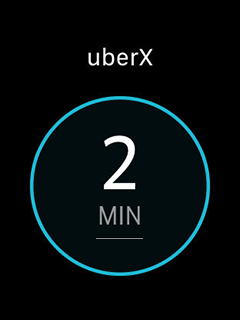
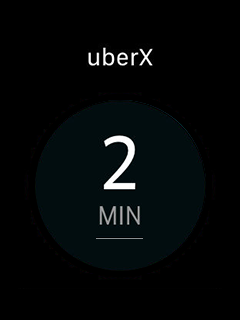
Drawing circles and buttons.

Changed region(s): [[0.1167, 0.2812, 0.7875, 0.875], [0.7, 0.4062, 0.875, 0.8125]]

diff --git a/src/UberMe.java b/src/UberMe.java
@@ -88,7 +88,7 @@ public class UberMe extends MIDlet {
 
     public void keyPressed(int keyCode){
       vect.addElement(getKeyName(keyCode));
-      state += 1;
+      state = (state > 1) ? 0 : state + 1;
       this.repaint();
     }
 
@@ -113,21 +113,25 @@ public class UberMe extends MIDlet {
       } else {
         currentImage = enrouteImage;
         strText = "En Route";
-        state = -1;
       } 
       g.drawImage(currentImage, 0, 0, Graphics.LEFT | Graphics.TOP);
-      g.setColor(255, 255, 255);
+      g.setColor(0xFFFFFF);
       letterFont = openSansBold;
       letters(g, strText, 4, 4);
       letters(g, strTime, width - (strTime.length() * 12) + 2, 4);
       g.setFont(fontSm);
       if (state == 1) {
-        g.setColor(0x99ff99);
-        g.drawRect(width / 2 - 50, height - 25, 100, 25);
+        g.setColor(0x24c4e2); // pulsate when runnable
+        g.drawArc(width / 2 - 90, 95, 180, 180, 0, 365);
+        g.drawArc(width / 2 - 89, 96, 178, 178, 0, 365);
+        g.drawArc(width / 2 - 88, 97, 176, 176, 0, 365);
         g.setColor(0xFFFFFF);
-        letters(g, "REQUEST", width / 2 - 44, height - 20);
+        letters(g, "REQUEST", width / 2 - 44, height - 22);
+        g.setColor(0x99ff99);
+        g.drawRoundRect(width / 2 - 52, height - 27, 104, 26, 9, 9);
       }
       if (state > -1) {
+        g.setColor(0xFFFFFF);
         g.drawString("Menu", 4, height - fontSm.getHeight(), Graphics.LEFT | Graphics.TOP);
         g.drawString("Back", width - 4 - fontSm.stringWidth("Back"),
                                 height - fontSm.getHeight(), Graphics.LEFT | Graphics.TOP);
